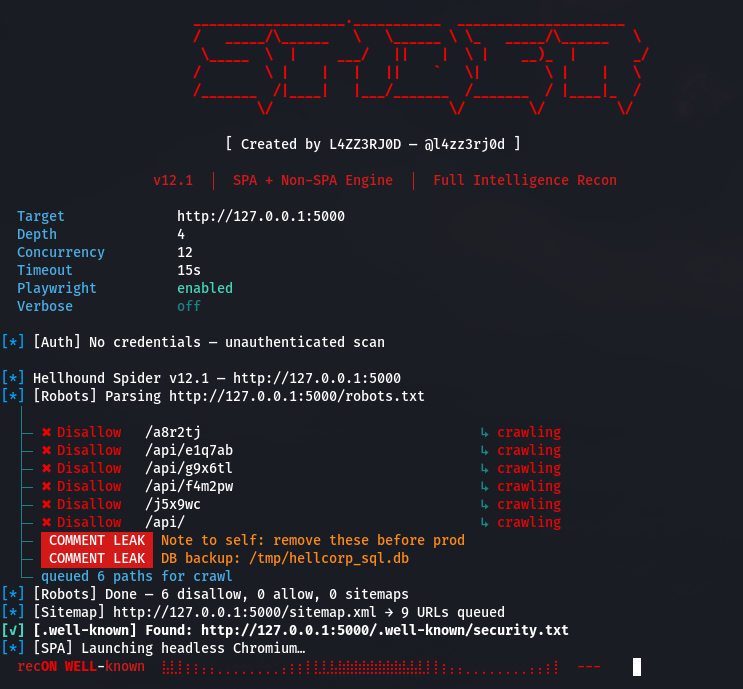
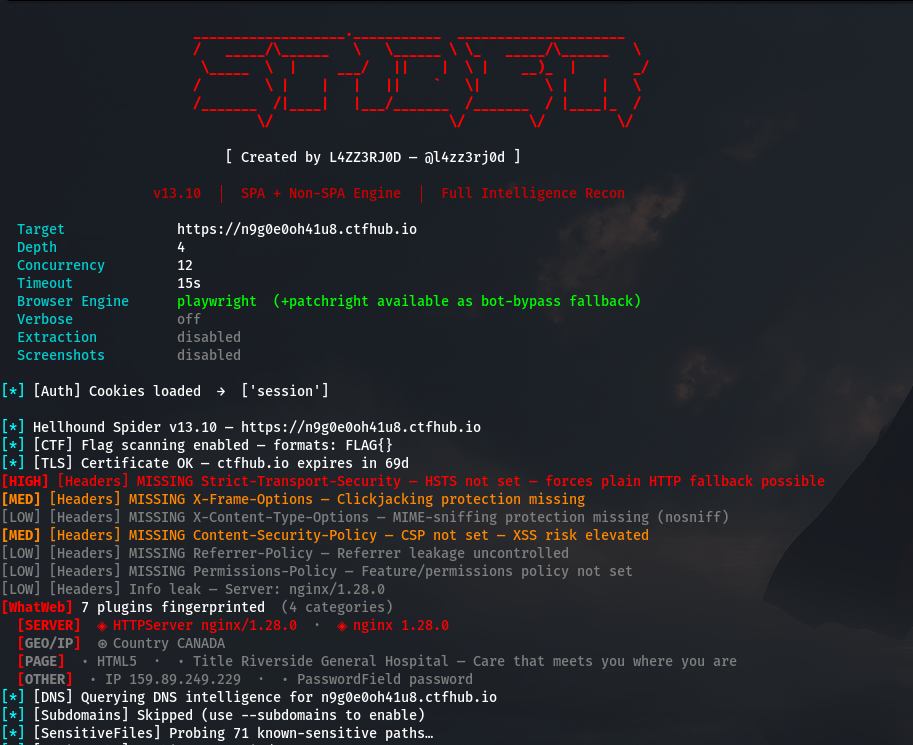
doc: update authentication details, remove external tool references, and update preview images

diff --git a/spider.py b/spider.py
@@ -1644,6 +1644,37 @@ class SessionManager:
             return {"Authorization": f"Basic {encoded}"}
         return {}
 
+    @staticmethod
+    def parse_custom_headers(raw_list) -> Dict[str, str]:
+        """
+        Generic --header / -X parser. Unlike parse_auth_header, this is NOT
+        restricted to a fixed allowlist — bug bounty programs (Bugcrowd,
+        HackerOne, Synack, etc.) often require arbitrary identifying headers
+        e.g. "X-Bug-Bounty: handle" or "X-BugCrowd-Ninja: handle" so a tester's
+        traffic is provably theirs and excluded from third-party noise.
+
+        Accepts a list of "Name: Value" strings (repeatable),
+        or a single such string, or a dict. Last value wins on duplicate names.
+        """
+        if not raw_list:
+            return {}
+        if isinstance(raw_list, dict):
+            return {str(k).strip(): str(v).strip() for k, v in raw_list.items() if str(k).strip()}
+        if isinstance(raw_list, str):
+            raw_list = [raw_list]
+        out: Dict[str, str] = {}
+        for item in raw_list:
+            if not item:
+                continue
+            item = item.strip()
+            if ":" not in item:
+                continue
+            k, _, v = item.partition(":")
+            k = k.strip(); v = v.strip()
+            if k:
+                out[k] = v
+        return out
+
 
                                                                         
               
@@ -7763,11 +7794,18 @@ def _build_parser() -> argparse.ArgumentParser:
 
     auth = p.add_argument_group(f"{C.CY}Authentication{C.RST}")
     auth.add_argument("--cookie",  "-C", type=str, default=None, metavar="COOKIE",
-                      help="Cookie string, dict, or path to cookie file")
+                      help='Cookie string (e.g., "session=42"), dict, or path to a cookie file. '
+                           'Since the spider does not support automated form-login using username/password, '
+                           'you must manually log in via a browser and supply the session cookie here.')
     auth.add_argument("--auth",    "-a", type=str, default=None, metavar="HEADER",
                       help='Authorization header  e.g. "Bearer eyJ..."')
     auth.add_argument("--basic-auth", "-u", type=str, default=None, metavar="USER:PASS",
-                      help='HTTP Basic auth, curl-style  e.g. "admin:password"')
+                      help='HTTP Basic Access Authentication credentials  e.g. "admin:password" '
+                           '(note: this is for server-level basic auth, not standard login forms)')
+    auth.add_argument("--header",  "-X", action="append", default=None, metavar="NAME: VALUE",
+                      help='Custom header, repeatable, formatted as "Name: Value"  e.g. -X "X-Bug-Bounty: Bugcrowd-yourhandle" '
+                           '-X "X-Research-Purpose: authorized-pentest"  '
+                           '(use for program-required tester-identification headers)')
 
     out = p.add_argument_group(f"{C.CY}Output{C.RST}")
     out.add_argument("--out",    "-o", type=str, default=None, metavar="FILE",
@@ -7897,6 +7935,13 @@ def main():
         else:
             emit.warn('[Auth] --basic-auth expects "user:pass" format — ignoring.')
 
+    custom_hdrs = SessionManager.parse_custom_headers(getattr(args, "header", None))
+    if custom_hdrs:
+        _bad = [h for h in (getattr(args, "header", None) or []) if h and ":" not in h]
+        if _bad:
+            emit.warn(f'[Auth] Ignored malformed --header value(s) (expected "Name: Value"): {_bad}')
+        xhdrs.update(custom_hdrs)  # -X wins on name clash with --auth/--basic-auth
+
     if isinstance(args.cookie, dict):
         _dropped = [k for k in args.cookie
                     if k.lower() in ("authorization","x-api-key","x-auth-token",
@@ -7907,9 +7952,9 @@ def main():
 
     if cookies:
         emit.always_info(f"[Auth] Cookies loaded  →  {list(cookies.keys())}")
-    elif xhdrs:
-        emit.always_info(f"[Auth] Header auth     →  {list(xhdrs.keys())}")
-    else:
+    if xhdrs:
+        emit.always_info(f"[Auth] Headers sent    →  {list(xhdrs.keys())}")
+    if not cookies and not xhdrs:
         emit.always_info("[Auth] No credentials — unauthenticated scan")
 
     cfg = Config(

diff --git a/README.md b/README.md
@@ -135,8 +135,10 @@ spider <target> [options]
 
 | Flag | Short | Description |
 |---|---|---|
-| `--cookie` | `-C` | Cookie string `"name=value"` or path to a cookie file |
+| `--cookie` | `-C` | Cookie string `"name=value"` or path to a cookie file. Since standard form-login is not supported, log in manually via browser and pass active session cookies here. |
 | `--auth` | `-a` | Authorization header value e.g. `"Bearer eyJ..."` |
+| `--basic-auth` | `-u` | HTTP Basic Access Authentication credentials e.g. `"admin:password"` (not for standard login forms) |
+| `--header` | `-X` | Custom header formatted as `"Name: Value"`, repeatable. |
 
 ### Output
 
@@ -165,11 +167,11 @@ spider <target> [options]
 
 | Flag | Short | Description |
 |---|---|---|
-| `--subdomains` | | Enable subdomain enumeration via certificate transparency logs |
+| `--subdomains` | `-b` | Enable subdomain enumeration via certificate transparency logs |
 | `--follow-subdomains` | `-S` | Crawl discovered subdomains within the base domain |
 | `--follow-redirects` | `-r` | Follow cross-host redirects and add destination to scope |
-| `--scope` | | Comma-separated extra hosts to include in scope |
-| `--wordlist` | | Path to a directory/file wordlist for endpoint discovery |
+| `--scope` | `-A` | Comma-separated extra hosts to include in scope |
+| `--wordlist` | `-w` | Path to a directory/file wordlist for endpoint discovery |
 
 ### CTF
 
@@ -182,7 +184,7 @@ spider <target> [options]
 | Flag | Short | Description |
 |---|---|---|
 | `--diff OLD_REPORT` | `-D` | Diff this scan against a previous JSON report |
-| `--upgrade` | | Pull latest version |
+| `--upgrade` | `-U` | Pull latest version |
 
 ---
 
@@ -200,6 +202,12 @@ spider https://target.com -C "token=eyJhbGci..."
 
 # Authenticated with Bearer token
 spider https://target.com -a "Bearer eyJhbGci..."
+
+# Authenticated with HTTP Basic Auth
+spider https://target.com -u "admin:password"
+
+# Authenticated with custom HTTP headers
+spider https://target.com -X "X-Bug-Bounty: handle" -X "X-Research-Purpose: testing"
 
 # Load cookies from a browser-exported file
 spider https://target.com -C /path/to/cookies.txt